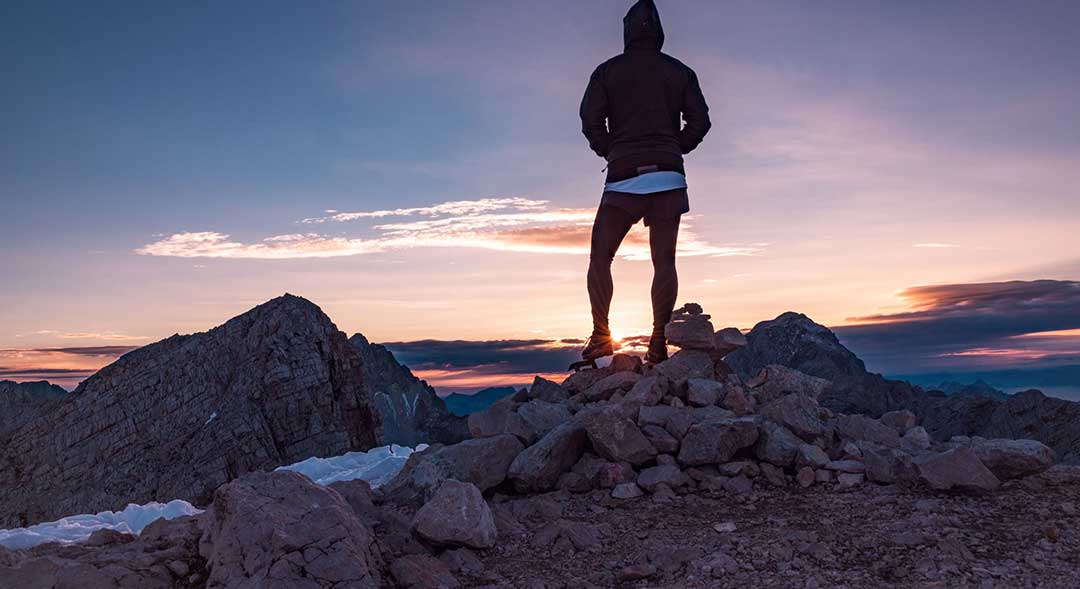
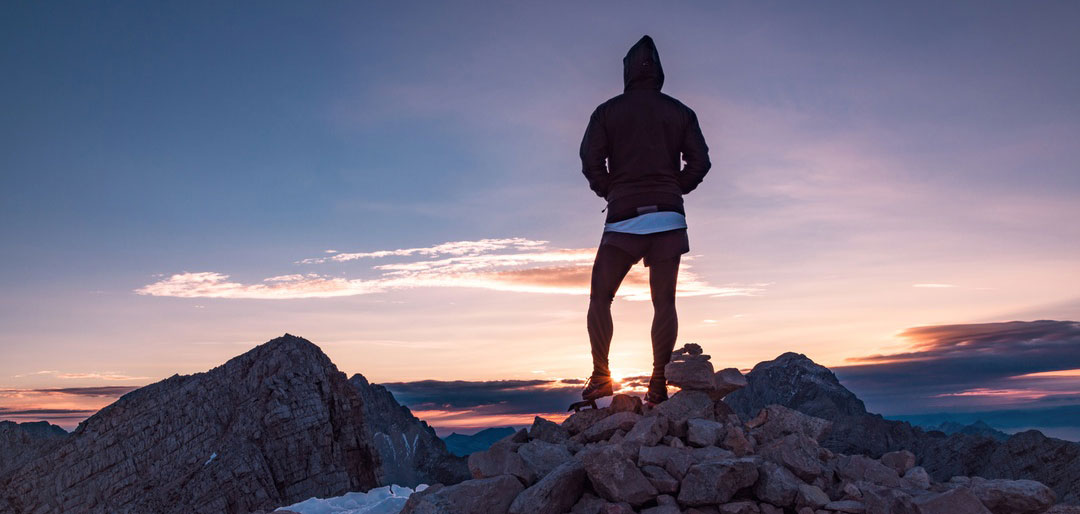
feat(css): quote ontop of impact image
style in css under style .impact-image

diff --git a/_site/css/style-dist.css b/_site/css/style-dist.css
@@ -49,14 +49,6 @@ body.noscript .toggle-btn {
   left: 5em;
 }
 
-.impact-image {
-  margin: 0 auto;
-  width: 100%;
-  display: block;
-  background-size: cover;
-  text-align: center;
-}
-
 header {
   padding: 0 1em;
   position: relative;
@@ -118,6 +110,28 @@ header {
 .close-btn {
   margin: 1em;
   color: #fff;
+}
+
+.impact-image {
+  position: relative;
+  width: 100%;
+}
+
+.impact-image .banner {
+  margin: 0 auto;
+  width: 100%;
+  display: block;
+  background-size: cover;
+  text-align: center;
+}
+
+.impact-image h2 {
+  position: absolute;
+  top: 200px;
+  left: 2em;
+  width: 100%;
+  color: white;
+  font-size: 4em;
 }
 
 /**
@@ -204,9 +218,9 @@ footer {
   height: 20em;
 }
 
-.about h2 {
+.about h3 {
   margin: 0;
-  padding-top: 3em;
+  padding-top: 2.5em;
   padding-bottom: 1em;
   color: white;
   text-align: center;

diff --git a/_site/css/style.css b/_site/css/style.css
@@ -49,14 +49,6 @@ body.noscript .toggle-btn {
   left: 5em;
 }
 
-.impact-image {
-  margin: 0 auto;
-  width: 100%;
-  display: block;
-  background-size: cover;
-  text-align: center;
-}
-
 header {
   padding: 0 1em;
   position: relative;
@@ -118,6 +110,28 @@ header {
 .close-btn {
   margin: 1em;
   color: #fff;
+}
+
+.impact-image {
+  position: relative;
+  width: 100%;
+}
+
+.impact-image .banner {
+  margin: 0 auto;
+  width: 100%;
+  display: block;
+  background-size: cover;
+  text-align: center;
+}
+
+.impact-image h2 {
+  position: absolute;
+  top: 200px;
+  left: 2em;
+  width: 100%;
+  color: white;
+  font-size: 4em;
 }
 
 /**
@@ -204,9 +218,9 @@ footer {
   height: 20em;
 }
 
-.about h2 {
+.about h3 {
   margin: 0;
-  padding-top: 3em;
+  padding-top: 2.5em;
   padding-bottom: 1em;
   color: white;
   text-align: center;

diff --git a/css/style-dist.css b/css/style-dist.css
@@ -49,14 +49,6 @@ body.noscript .toggle-btn {
   left: 5em;
 }
 
-.impact-image {
-  margin: 0 auto;
-  width: 100%;
-  display: block;
-  background-size: cover;
-  text-align: center;
-}
-
 header {
   padding: 0 1em;
   position: relative;
@@ -118,6 +110,28 @@ header {
 .close-btn {
   margin: 1em;
   color: #fff;
+}
+
+.impact-image {
+  position: relative;
+  width: 100%;
+}
+
+.impact-image .banner {
+  margin: 0 auto;
+  width: 100%;
+  display: block;
+  background-size: cover;
+  text-align: center;
+}
+
+.impact-image h2 {
+  position: absolute;
+  top: 200px;
+  left: 2em;
+  width: 100%;
+  color: white;
+  font-size: 4em;
 }
 
 /**
@@ -204,9 +218,9 @@ footer {
   height: 20em;
 }
 
-.about h2 {
+.about h3 {
   margin: 0;
-  padding-top: 3em;
+  padding-top: 2.5em;
   padding-bottom: 1em;
   color: white;
   text-align: center;

diff --git a/css/style.css b/css/style.css
@@ -49,14 +49,6 @@ body.noscript .toggle-btn {
   left: 5em;
 }
 
-.impact-image {
-  margin: 0 auto;
-  width: 100%;
-  display: block;
-  background-size: cover;
-  text-align: center;
-}
-
 header {
   padding: 0 1em;
   position: relative;
@@ -118,6 +110,28 @@ header {
 .close-btn {
   margin: 1em;
   color: #fff;
+}
+
+.impact-image {
+  position: relative;
+  width: 100%;
+}
+
+.impact-image .banner {
+  margin: 0 auto;
+  width: 100%;
+  display: block;
+  background-size: cover;
+  text-align: center;
+}
+
+.impact-image h2 {
+  position: absolute;
+  top: 200px;
+  left: 2em;
+  width: 100%;
+  color: white;
+  font-size: 4em;
 }
 
 /**
@@ -204,9 +218,9 @@ footer {
   height: 20em;
 }
 
-.about h2 {
+.about h3 {
   margin: 0;
-  padding-top: 3em;
+  padding-top: 2.5em;
   padding-bottom: 1em;
   color: white;
   text-align: center;

diff --git a/index.html b/index.html
@@ -3,11 +3,13 @@ layout: default
 ---
 <main>
   
-
-<img class="impact-image" src="{{site.baseurl}}/images/impact-image.jpg" alt="Athena Logo" />
+<div class="impact-image">
+  <img class="banner" src="{{site.baseurl}}/images/impact-image.jpg" alt="Athena Logo" />
+    <h2>FROM SURVIVOR <br> TO ATHLETE</h2>
+</div>
   
   <div class="about">
-    <h2>What is Project Athena?</h2>
+    <h3>What is Project Athena?</h3>
       <p>Project Athena is a 501c3 non-profit foundation that encourages women who've endured life-altering medical setbacks to unleash the Athlete and Adventurer within and complete the journey of a lifetime—whether that's to climb Mt. Kilimanjaro, cross the finish line of an Ironman Triathlon, or fall into the arms of a proud family at the end of a local 5K.</p>
   </div>
  

diff --git a/_site/index.html b/_site/index.html
@@ -42,11 +42,13 @@
 
 <main>
   
-
-<img class="impact-image" src="/images/impact-image.jpg" alt="Athena Logo" />
+<div class="impact-image">
+  <img class="banner" src="/images/impact-image.jpg" alt="Athena Logo" />
+    <h2>FROM SURVIVOR <br> TO ATHLETE</h2>
+</div>
   
   <div class="about">
-    <h2>What is Project Athena?</h2>
+    <h3>What is Project Athena?</h3>
       <p>Project Athena is a 501c3 non-profit foundation that encourages women who've endured life-altering medical setbacks to unleash the Athlete and Adventurer within and complete the journey of a lifetime—whether that's to climb Mt. Kilimanjaro, cross the finish line of an Ironman Triathlon, or fall into the arms of a proud family at the end of a local 5K.</p>
   </div>
  

diff --git a/scss/components/_main.scss b/scss/components/_main.scss
@@ -35,10 +35,6 @@ body{
   left: 5em;
 }
 
-.impact-image {
-  @include impact-image;
-}
-
 header {
   padding: 0 1em;
   position: relative;
@@ -93,6 +89,23 @@ header {
 	margin: 1em;
     color: $white;
 }
+
+.impact-image { 
+   position: relative; 
+   width: 100%;
+  .banner {
+    @include impact-image;
+  }
+  h2 { 
+   position: absolute; 
+   top: 200px; 
+   left: 2em; 
+   width: 100%; 
+   color: white;
+   font-size: 4em;
+  }
+}
+
 
 /**
 *sliding navigation
@@ -163,9 +176,9 @@ footer {
 .about {
   background-color: pink;
   height: 20em;
-  h2 {
+  h3 {
     margin: 0;
-    padding-top: 3em;
+    padding-top: 2.5em;
     padding-bottom: 1em;
     color:white;
     text-align: center;
